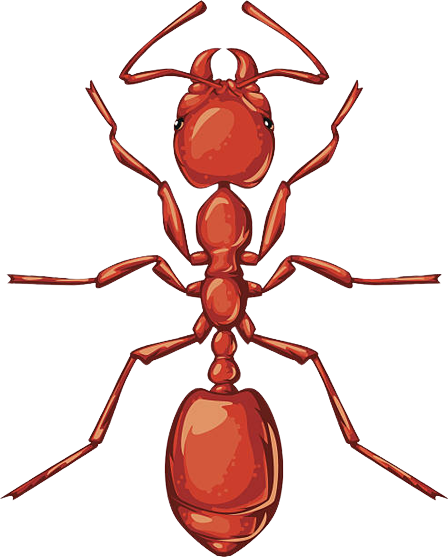
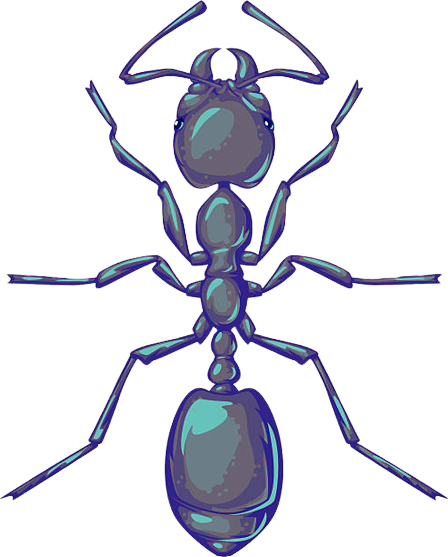
je sors de la bu une larma à l'oeuil

Changed region(s): [[0.0, 0.061, 1.0, 1.0], [0.5312, 0.0, 0.6875, 0.0916], [0.3125, 0.0, 0.4688, 0.0916]]

diff --git a/src/ant/ant.cpp b/src/ant/ant.cpp
@@ -81,29 +81,25 @@ void Ant::move(){
     // int ft = food_state;
     // printf("%d\n", ft);
     if(food_state == 0){
-        if(game->get_nb_food_spot() >0){
-            Food *nearest_spot = get_nearest_spot(); 
-            if(game->get_iter()>20 && get_dist(nearest_spot->get_pos(), &position)<game->range_ant*game->range_ant){
-                go_on_this_point(nearest_spot->get_pos());
-                target_pos = nearest_spot->get_pos();
-                current_food = nearest_spot;
-                food_state = 1;
-            }else{
-                Pheromone *nearest_pheromone = get_nearest_pheromone();
-                if(game->get_iter()>20 && nearest_pheromone != nullptr && get_dist(nearest_pheromone->get_pos(), &position)<game->range_ant*game->range_ant){
-                    go_on_this_point(nearest_pheromone->get_pos());
-                    target_pos = nearest_pheromone->get_pos();
-                    food_state = 1; 
-                }else if(random_count == 0){
-                    get_new_random_dir();
-                    random_count = 150;
-                }else{
-                    random_count -= 1;
-                }   
-            }       
+        Food *nearest_spot = get_nearest_spot(); 
+        if(nearest_spot != nullptr && game->get_iter()>20 && get_dist(nearest_spot->get_pos(), &position)<game->range_ant*game->range_ant){
+            go_on_this_point(nearest_spot->get_pos());
+            target_pos = nearest_spot->get_pos();
+            current_food = nearest_spot;
+            food_state = 1;
         }else{
-            current_dir = {0, 0};
-        }
+            Pheromone *nearest_pheromone = get_nearest_pheromone();
+            if(nearest_pheromone != nullptr && game->get_iter()>20 && nearest_pheromone != nullptr && get_dist(nearest_pheromone->get_pos(), &position)<game->range_ant*game->range_ant){
+                go_on_this_point(nearest_pheromone->get_pos());
+                target_pos = nearest_pheromone->get_pos();
+                food_state = 1; 
+            }else if(random_count == 0){
+                get_new_random_dir();
+                random_count = 150;
+            }else{
+                random_count -= 1;
+            }   
+        }       
     }else if(food_state == 1 || food_state == 3){
         if(game->get_iter() % 7 == 0){
             int d = go_on_this_point(target_pos);
@@ -124,8 +120,10 @@ void Ant::move(){
         if(game->get_iter() % 10 == 0 && food_state == 3 && authorised_to_place_pheromone){
             current_food->add_fake_pheromone(position, id_colonie);
         }
-        int s = game->size_food/2;
-        if(opponent != nullptr){
+        int s;
+        if(current_food != nullptr && target_pos != anthill->get_pos()){
+            s = current_food->get_size()/2;            
+        }else{
             s = 10;
         }
         if(target_pos->x-s <= position.x && target_pos->x+s >= position.x && target_pos->y-s <= position.y && target_pos->y+s >= position.y){
@@ -201,6 +199,7 @@ void Ant::reset_opponent(){
 }
 
 Pheromone *Ant::get_nearest_pheromone(){
+    if(game->get_nb_food_spot() == 0) return nullptr;
     int min = -1;
     int i_spot = -1;
     int i_pheromone = -1;
@@ -243,6 +242,7 @@ bool Ant::take_damage(int damage){
 
 Food *Ant::get_nearest_spot(){
     int size = game->get_nb_food_spot();
+    if(size == 0) return nullptr;
     int min = get_dist(&position, game->get_food(0)->get_pos());
     int result = 0;
     for(int i=1; i<size; i++){

diff --git a/src/game.cpp b/src/game.cpp
@@ -80,12 +80,15 @@ void Game::build_image(){
     ant_images_tab[0]->load("../images/red_ant.png");
     ant_images_tab[1]->load("../images/green_ant.png");
     ant_images_tab[2]->load("../images/blue_ant.png");
+    ant_images_tab[3]->load("../images/purple_ant.png");
+    ant_images_tab[4]->load("../images/light_green_ant.png");
+    ant_images_tab[5]->load("../images/gris_ant.png");
     for(int i=0; i<nb_different_colors; i++){
         *ant_images_tab[i] = ant_images_tab[i]->scaled(70, 70);
     }
     anthill_img = new QPixmap();
     anthill_img->load("../images/anthill.png");
-    *anthill_img = anthill_img->scaled(200, 200);
+    *anthill_img = anthill_img->scaled(anthill_size, anthill_size);
     
 } 
 
@@ -189,7 +192,7 @@ void Game::start_the_custom_simulation(){
     nb_anthill = nb_custom_anthill;
     init_ant_tab();
     for(unsigned int i=0; i<nb_custom_food; i++){
-        food_tab.push_back(new Food(*(draw_food_tab[i]->get_pos()), this, size_food));
+        food_tab.push_back(new Food(*(draw_food_tab[i]->get_pos()), this, draw_food_tab[i]->get_size()));
         delete draw_food_tab[i];
     }
     play();
@@ -215,11 +218,9 @@ void Game::switch_state(){
 
 void Game::play(){
     QTimer::singleShot(20, this, [=](){
-        if(food_tab.size() > 0){
-            move_ants();
-            view->update();
-            iter += 1;
-        }
+        move_ants();
+        view->update();
+        iter += 1;
         play();
     });
 }
@@ -361,6 +362,26 @@ void Game::delete_selected_food(){
                 break;
         }
     }
+    }
+}
+
+void Game::increase_selected_food(){
+    if(selected_food != nullptr){
+        int new_s = selected_food->get_size() + increase_of_size;
+        coord xy = *(selected_food->get_pos());
+        delete selected_food;
+        selected_food = new Circle(*food_color, view->get_scene(), new_s, xy);
+        selected_food->up_light();
+    }
+}
+
+void Game::decrease_selected_food(){
+    if(selected_food != nullptr){
+        int new_s = selected_food->get_size() - increase_of_size;
+        coord xy = *(selected_food->get_pos());
+        delete selected_food;
+        selected_food = new Circle(*food_color, view->get_scene(), new_s, xy);
+        selected_food->up_light();
     }
 }
 

diff --git a/src/view/my_view.cpp b/src/view/my_view.cpp
@@ -16,19 +16,23 @@ QGraphicsScene * My_view::get_scene(){
 
 void My_view::keyPressEvent(QKeyEvent* event){
     int key = event->key();
-    if(game->get_iter() != 0){
+    if(key == Qt::Key_Up){
+        zoom(1.2);
+    }else if(key == Qt::Key_Down){
+        zoom(0.8);
+    }else if(game->get_iter() != 0){
         if(key == Qt::Key_A) {
             game->change_view_state();
-        }else if(key == Qt::Key_Up){
-            zoom(1.2);
-        }else if(key == Qt::Key_Down){
-            zoom(0.8);
         }
     }else if(game->get_config_mode()){
         if(key == Qt::Key_Return){
             game->start_the_custom_simulation();
-        }else if(key == Qt::Key_A){
+        }else if(key == Qt::Key_D){
             game->delete_selected_food();
+        }else if(key == Qt::Key_P){
+            game->increase_selected_food();
+        }else if(key == Qt::Key_M){
+            game->decrease_selected_food();
         }
     }
 }

diff --git a/src/game.h b/src/game.h
@@ -64,7 +64,8 @@ public:
     void config_left_click(coord xy);
     void erase_food(Circle *anthill);
     void delete_selected_food();
-
+    void increase_selected_food();
+    void decrease_selected_food();
     QPixmap *anthill_img;
 
     static const int map_height = 15000;
@@ -80,7 +81,9 @@ public:
     static const int range_to_join_fight = 450;
     static const int ant_base_hp = 120;
     static const int ant_damage = 1;
+    static const int increase_of_size = 10;
     static const int nb_start_ant = 10; 
+    static const int anthill_size = 200;
 
 private:
     My_view *view;
@@ -109,7 +112,7 @@ private:
     QScreen* screen;
     dim screen_size;
 
-    int nb_different_colors = 3;
+    int nb_different_colors = 6;
     int nb_anthill = 3;
     int nb_start_food_spot = 30; 
     bool config_mode = false;

diff --git a/src/food/food.cpp b/src/food/food.cpp
@@ -5,6 +5,8 @@
 Food::Food(coord xy, Game *game, int s) : Circle(game->get_food_color(), game->get_view()->get_scene(), s, xy){
     this->game = game;
     this->position = xy;
+    position.x += s/2;
+    position.y += s/2;
     this->origin = xy;
     this->size = s;
     this->nb_food_remain = size/3;

diff --git a/src/ant/anthill.cpp b/src/ant/anthill.cpp
@@ -3,6 +3,8 @@
 
 Anthill::Anthill(Game *game, coord xy) : My_image(game->anthill_img, game->get_view()->get_scene(), xy){
     position = xy;
+    position.x += game->anthill_size/2;
+    position.y += game->anthill_size/2;
 }   
 
 Anthill::~Anthill(){
